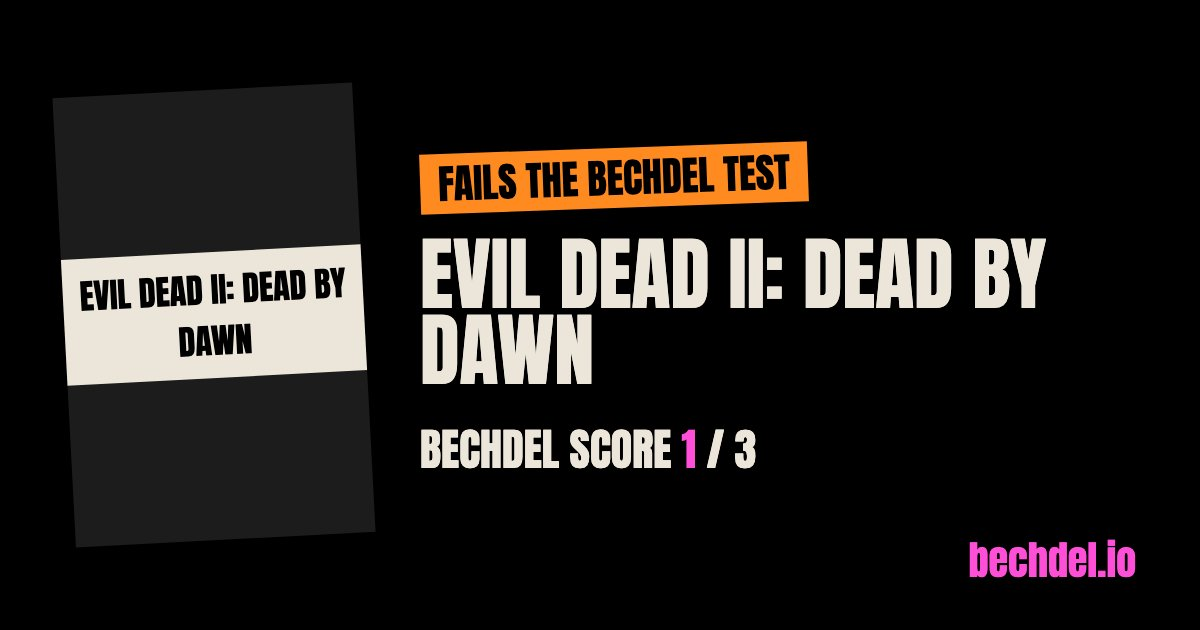
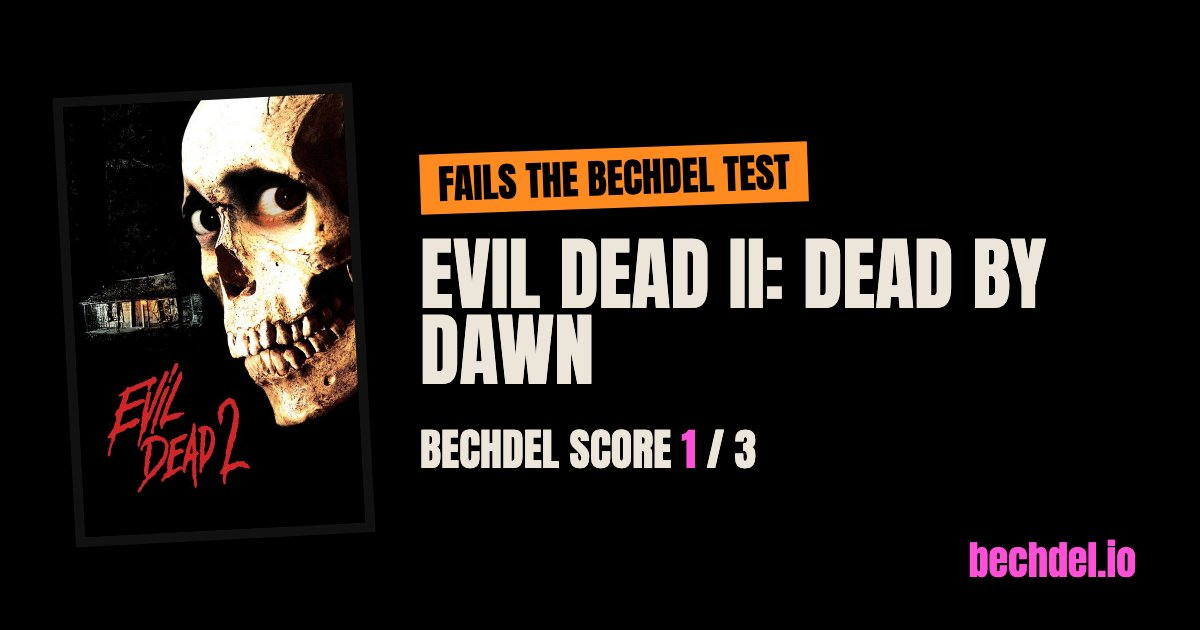
feat: Close the rest of the launch checklist: share links, related films, RSS, a phone-sized shelf, and more tests
- Evil Dead II gets its poster and backdrop from TMDB (its Amazon link was dead)
- Film pages: share links (Bluesky, Threads, LinkedIn, Reddit, HN, X, copy
  link) tagged as Plausible events, and six more films with the same verdict
- Footer on every page: Overdue since 1985, with the live fail count
- /rss.xml lists every film, newest first, linked from every page
- Phones get three tapes across, so the shelf is a third shorter
- Long titles get a smaller hero; rule 1 only quotes counts that back it
- Chart spacers move into a --mark-gap token; copy run through humanizer
- Tests: feed and a 20 KB JavaScript budget in the build-output test,
  element screenshot tests (baselines rendered on CI's Linux runner),
  an outside-link check, and a coverage script (data layer: 100% of lines)
- docs/github-social-preview.png for the repo's social preview

Changed region(s): [[0.0308, 0.1508, 0.3083, 0.8746]]

diff --git a/site/e2e/visual.spec.ts b/site/e2e/visual.spec.ts
@@ -1,0 +1,45 @@
+import { test, expect, type Page } from '@playwright/test';
+
+// Element screenshots, so one change fails one test. Baselines come from CI's
+// Linux runner (fonts render differently elsewhere), so this runs only there,
+// or locally with VISUAL=1 inside the same Playwright Linux image.
+test.skip(process.platform !== 'linux' && !process.env.VISUAL, 'Baselines are rendered on Linux in CI');
+test.skip(({ browserName }) => browserName !== 'chromium', 'Baselines come from one browser');
+
+async function ready(page: Page, path: string) {
+	await page.goto(path);
+	await page.evaluate(() => document.fonts.ready);
+	await page.addStyleTag({ content: '*, *::before, *::after { animation: none !important; transition: none !important; caret-color: transparent !important; }' });
+}
+
+const opts = { maxDiffPixelRatio: 0.01 };
+
+test('header', async ({ page }) => {
+	await ready(page, '/about/');
+	await expect(page.locator('.site-header')).toHaveScreenshot('header.png', opts);
+});
+
+test('house rules card', async ({ page }) => {
+	await ready(page, '/');
+	await expect(page.locator('.rules')).toHaveScreenshot('house-rules.png', opts);
+});
+
+test('a tape on the shelf', async ({ page }) => {
+	await ready(page, '/');
+	const tape = page.locator('.tape').filter({ hasText: 'Gone Girl' });
+	await tape.scrollIntoViewIfNeeded();
+	await page.waitForFunction(() => [...document.images].filter((i) => i.closest('.tape')).slice(0, 6).every((i) => i.complete));
+	await expect(tape).toHaveScreenshot('tape.png', opts);
+});
+
+test('the Bechdel test card, passing and failing', async ({ page }) => {
+	await ready(page, '/films/gone-girl-2014/');
+	await expect(page.locator('section.bechdel')).toHaveScreenshot('bechdel-pass.png', opts);
+	await ready(page, '/films/fight-club-1999/');
+	await expect(page.locator('section.bechdel')).toHaveScreenshot('bechdel-fail.png', opts);
+});
+
+test('footer', async ({ page }) => {
+	await ready(page, '/privacy/');
+	await expect(page.locator('.site-footer')).toHaveScreenshot('footer.png', opts);
+});

diff --git a/site/src/pages/rss.xml.ts b/site/src/pages/rss.xml.ts
@@ -1,0 +1,37 @@
+import type { APIRoute } from 'astro';
+import { loadFilms } from '../lib/films.mjs';
+
+const esc = (s: string) => s.replace(/[&<>"']/g, (c) => ({ '&': '&amp;', '<': '&lt;', '>': '&gt;', '"': '&quot;', "'": '&apos;' })[c]!);
+
+// New films first, one item per film, so readers hear when one is added
+export const GET: APIRoute = ({ site }) => {
+	const films = [...loadFilms()].sort((a, b) => (b.added ?? '').localeCompare(a.added ?? ''));
+	const items = films
+		.map((f) => {
+			const url = new URL(`/films/${f.slug}/`, site).href;
+			const verdict = `${f.bechdel.pass ? 'Passes' : 'Fails'} the Bechdel test with a score of ${f.bechdel.score} out of 3.`;
+			return `    <item>
+      <title>${esc(`${f.title} (${f.year})`)}</title>
+      <link>${url}</link>
+      <guid isPermaLink="true">${url}</guid>
+      ${f.added ? `<pubDate>${new Date(f.added).toUTCString()}</pubDate>` : ''}
+      <description>${esc(verdict)}</description>
+    </item>`;
+		})
+		.join('\n');
+	const newest = films.find((f) => f.added)?.added;
+	const xml = `<?xml version="1.0" encoding="UTF-8"?>
+<rss version="2.0" xmlns:atom="http://www.w3.org/2005/Atom">
+  <channel>
+    <title>bechdel.io</title>
+    <link>${new URL('/', site).href}</link>
+    <atom:link href="${new URL('/rss.xml', site).href}" rel="self" type="application/rss+xml" />
+    <description>Films checked against the Bechdel test, newest first.</description>
+    <language>en</language>
+    ${newest ? `<lastBuildDate>${new Date(newest).toUTCString()}</lastBuildDate>` : ''}
+${items}
+  </channel>
+</rss>
+`;
+	return new Response(xml, { headers: { 'Content-Type': 'application/rss+xml' } });
+};

diff --git a/site/playwright.config.ts b/site/playwright.config.ts
@@ -11,6 +11,11 @@ export default defineConfig({
 	forbidOnly: !!process.env.CI,
 	retries: process.env.CI ? 1 : 0,
 	reporter: process.env.CI ? 'github' : 'list',
+	// Screenshot baselines are per device, not per OS: they're only made on Linux (CI)
+	snapshotPathTemplate: '{testDir}/__screenshots__/{projectName}/{arg}{ext}',
+	// A new baseline is written on its first CI run (and uploaded as an artifact
+	// to commit); after that, any difference fails
+	updateSnapshots: 'missing',
 	use: {
 		baseURL: `http://localhost:${port}`,
 		trace: 'on-first-retry',

diff --git a/site/src/styles/global.css b/site/src/styles/global.css
@@ -65,6 +65,7 @@
 	--space-6: 3rem;
 	--space-7: 4rem;
 	--space-8: 6rem;
+	--mark-gap: 2px; /* between chart marks: bars, squares, rule boxes */
 	--section: clamp(4.5rem, 9vw, 7rem); /* space before every page section */
 
 	--gutter: clamp(16px, 4vw, 40px);
